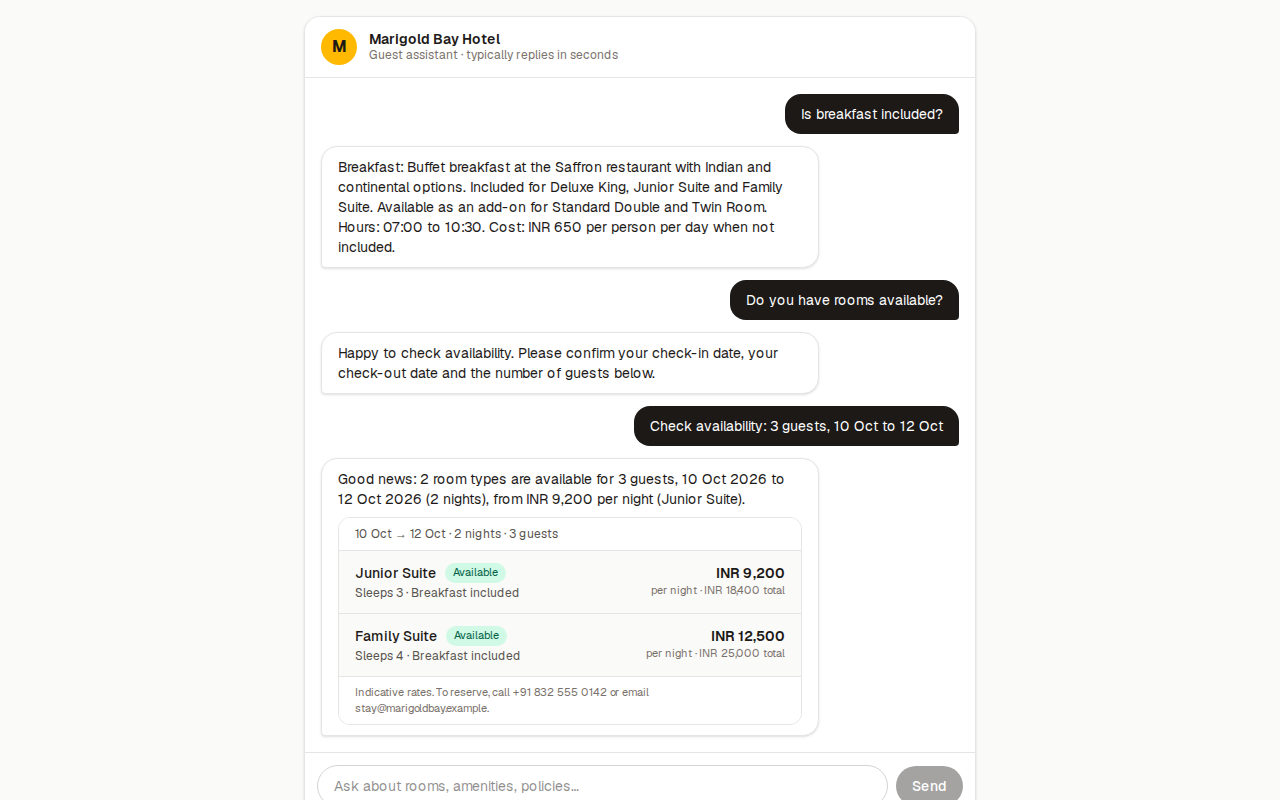
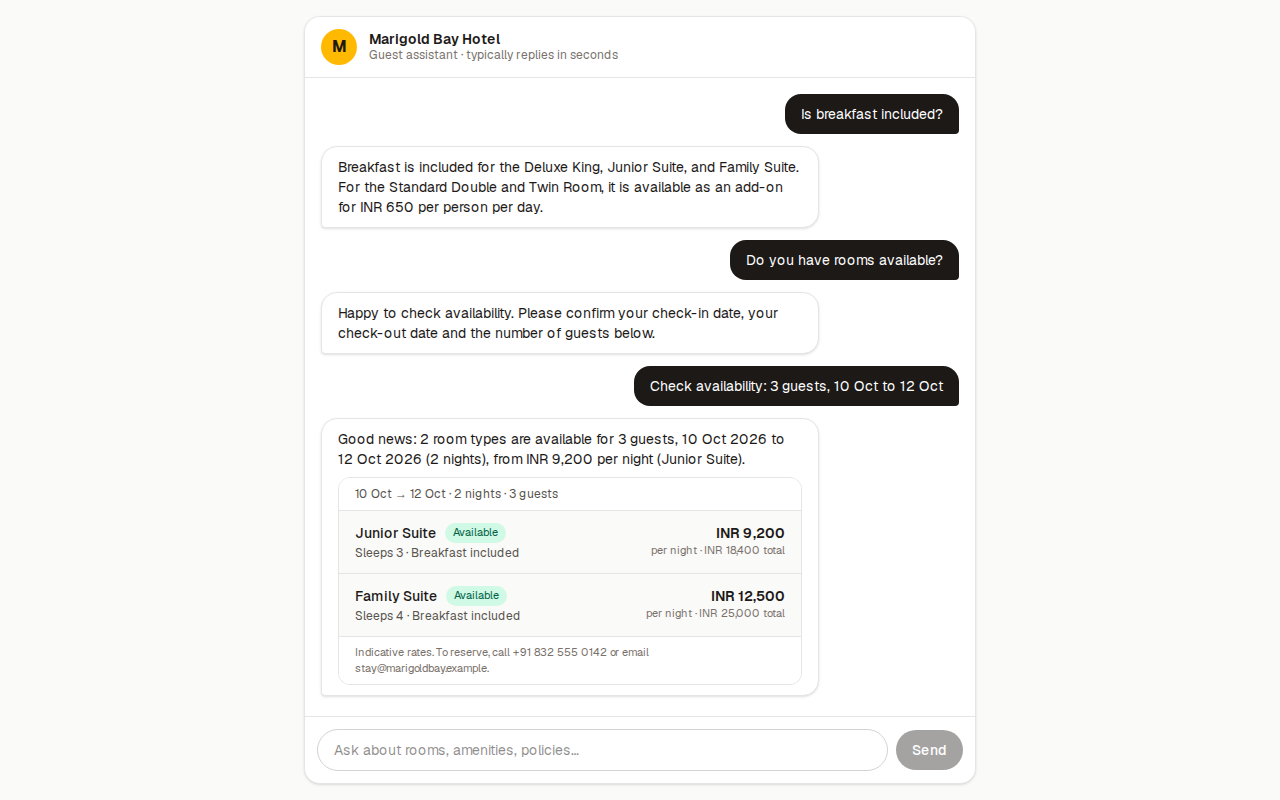
docs: add live demo URL, production check, screenshots from the deployed site

Changed region(s): [[0.25, 0.1875, 0.75, 1.0]]

diff --git a/README.md b/README.md
@@ -2,7 +2,7 @@
 
 A small full-stack app: a chat interface where hotel guests ask about the property and check room availability. The frontend is Next.js; the backend is a set of Next.js route handlers that ground a Gemini model in a JSON knowledge base and call a deterministic availability tool.
 
-**Live demo:** _URL added after deploy_ · **Live-model eval:** 17/17 scenarios pass, see [evaluation](docs/evaluation.md) · **Docs:** [Architecture](#architecture) · [API examples](docs/api-examples.md) · [Decisions](docs/decisions.md) · [Evaluation](docs/evaluation.md) · [AI tools used](docs/ai-tools-used.md)
+**Live demo:** https://hotel-guest-assistant-lilac.vercel.app (Vercel Hobby, Gemini free tier, so the first reply can take 10 to 20 s while the model chain finds a responsive model) · **Live-model eval:** 17/17 scenarios pass, see [evaluation](docs/evaluation.md) · **Docs:** [Architecture](#architecture) · [API examples](docs/api-examples.md) · [Decisions](docs/decisions.md) · [Evaluation](docs/evaluation.md) · [AI tools used](docs/ai-tools-used.md)
 
 ## Quick start
 

diff --git a/docs/evaluation.md b/docs/evaluation.md
@@ -63,6 +63,10 @@ Extra live checks beyond the matrix:
 
 Before the model chain and the single-call refactor, the same run produced 8 to 11 `llm_unavailable` fallbacks out of 16 and a 12 s median. On a paid tier or a stable model this collapses to 1 to 3 s per turn; the chain, timeouts and fallbacks are what keep the free-tier demo usable.
 
+## Live deployment check (2026-09-22)
+
+Same demo path run with curl against the production URL https://hotel-guest-assistant-lilac.vercel.app after deploy: health reports `gemini:gemini-3.1-flash-lite`; check-in time, three-guest room, follow-up price via client-carried history, availability clarification, form-based availability (Junior Suite + Family Suite), out-of-scope fallback and a 400 validation error all returned the expected envelope. Screenshots in `docs/screenshots/` were captured from the live site.
+
 ## Known gaps
 
 - Keyword retrieval can miss paraphrases ("bathing area" for pool). Embeddings would fix this; see decisions.

diff --git a/docs/api-examples.md b/docs/api-examples.md
@@ -1,6 +1,6 @@
 # API examples
 
-Base URL: `http://localhost:3000` locally, or the deployed Vercel URL. All examples run against the mock provider as well; with a Gemini key the wording of `text` answers changes but the shapes do not.
+Base URL: `http://localhost:3000` locally, or the live deployment `https://hotel-guest-assistant-lilac.vercel.app`. All examples run against the mock provider as well; with a Gemini key the wording of `text` answers changes but the shapes do not.
 
 ## Health
 
